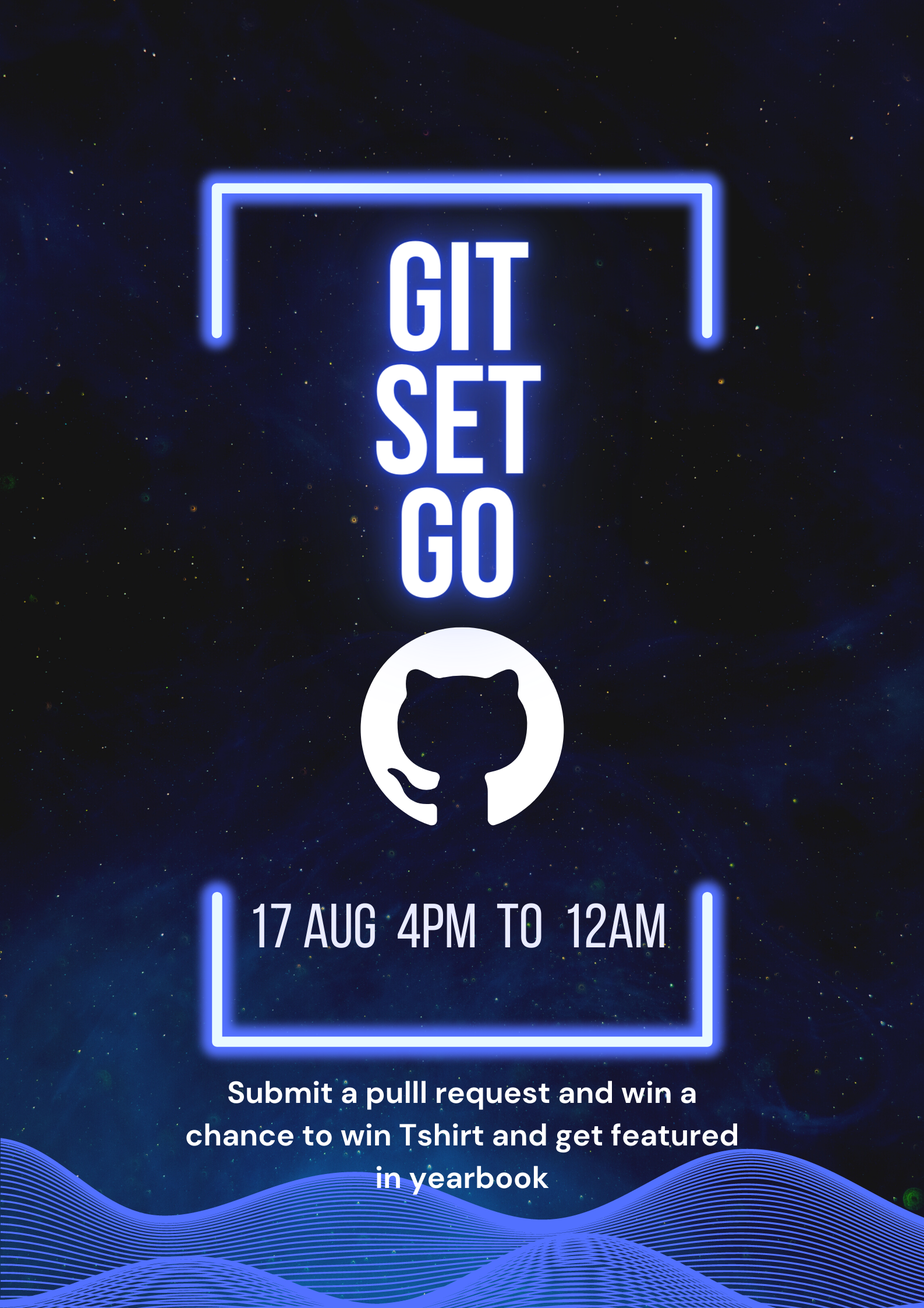
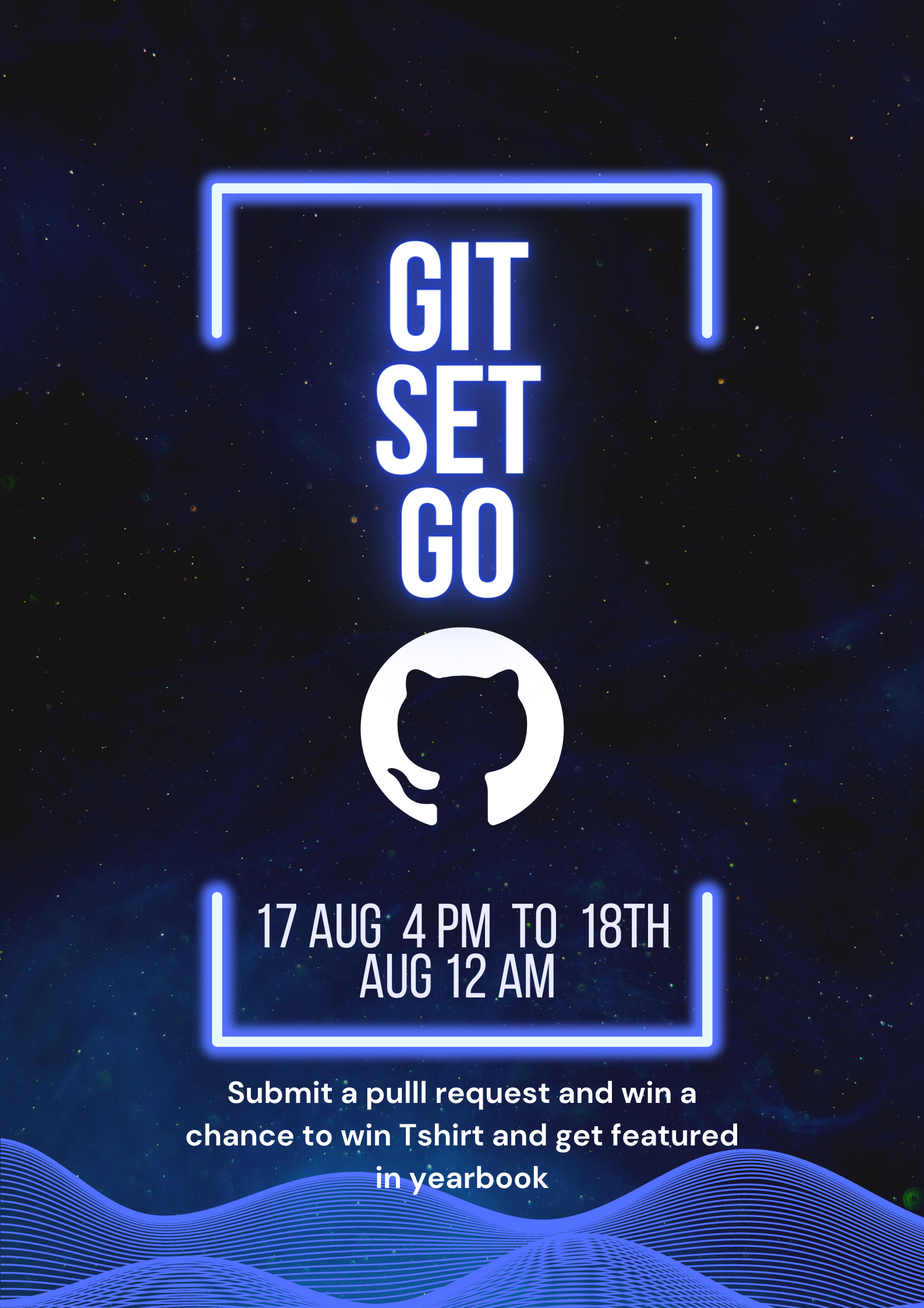
terms update

Changed region(s): [[0.2779, 0.686, 0.741, 0.7795]]

diff --git a/readme.md b/readme.md
@@ -3,7 +3,9 @@
 This repository contains the yearbook for **Git Set Go**. By issuing a pull request to this repository, you can request 
 and get started with github and take part in the Git Set Go 2022.
 
-The first 15 pull request successfully merged into the repository by August 18 8PM IST will receive T-shirts.
+The first 15 pull request successfully merged into the repository from 17th August 4PM to 18th August 12 AM IST will receive T-shirts.
+
+All the entires will get featured in the yearbook in the repository
 
 ## Privacy Notice 👀
 
